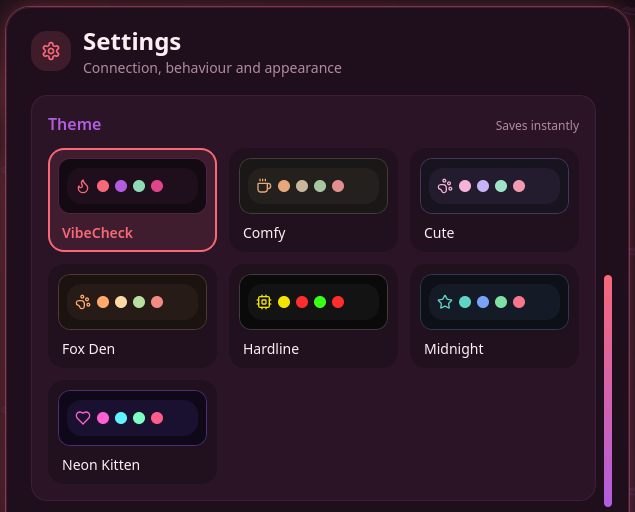
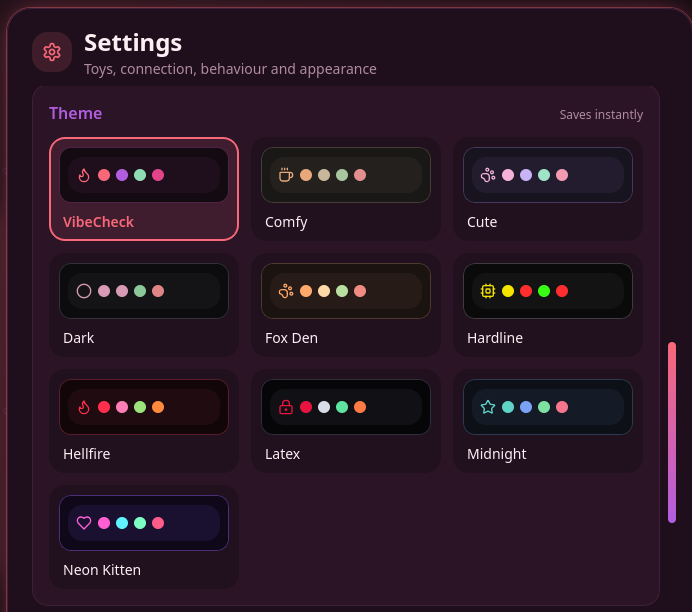
Readme latency (#110)
* README: Buttplug.io built in means nothing in between; Intiface Central still works; all ten themes

Why VibeCheck now leads with the built-in toy connection (commands go
straight to the toy, not through another app, so lower latency and nothing
extra to start), with Intiface Central as its own point. The themes
screenshot shows all ten themes. 0.7.27.

* README: ease of use in Why VibeCheck

Finds VRChat by itself, a first-toy checklist, the avatar's parameters
suggested as you type (with a warning for ones it doesn't have), the Test
button and live diagnostics.

---------

diff --git a/README.md b/README.md
@@ -34,9 +34,10 @@
 
 ## Why VibeCheck
 
-- **No extra apps.** VibeCheck talks to your toys over Bluetooth itself, through [Buttplug.io](https://buttplug.io/), so it works with [hundreds of toys](https://iostindex.com/?filter0ButtplugSupport=4). No Bluetooth on your PC? Use [Intiface Central](https://github.com/SutekhVRC/VibeCheck/wiki/Intiface-Central) on your phone instead.
+- **Nothing in between, so lower latency.** [Buttplug.io](https://buttplug.io/) is built in: VibeCheck talks to your toys over Bluetooth itself, so every command goes straight to the toy instead of through another app, and there's nothing extra to start. Works with [hundreds of toys](https://iostindex.com/?filter0ButtplugSupport=4).
+- **Intiface Central works too.** Prefer it, or no Bluetooth on your PC? Connect through [Intiface Central](https://github.com/SutekhVRC/VibeCheck/wiki/Intiface-Central) on your computer or phone instead.
 - **SPS and TPS built in.** SPS 3, older SPS (even mixed) and TPS, with depth, touch and frot. Or drive toys from any avatar parameter you like.
-- **Sets itself up with VRChat.** Finds VRChat over OSCQuery on its own port, so it runs alongside your other OSC apps.
+- **Easy to set up.** It finds VRChat by itself (alongside your other OSC apps), a checklist walks you through your first toy, and it suggests your avatar's own parameters as you type, warning you if one doesn't exist. A Test button and live diagnostics show what's happening without guesswork.
 - **Safe by design.** A panic stop that is always one press away (button, **Ctrl + Alt + P**, tray or avatar menu) and a master intensity for every toy.
 - **Windows and Linux,** with in-app updates on both.
 
